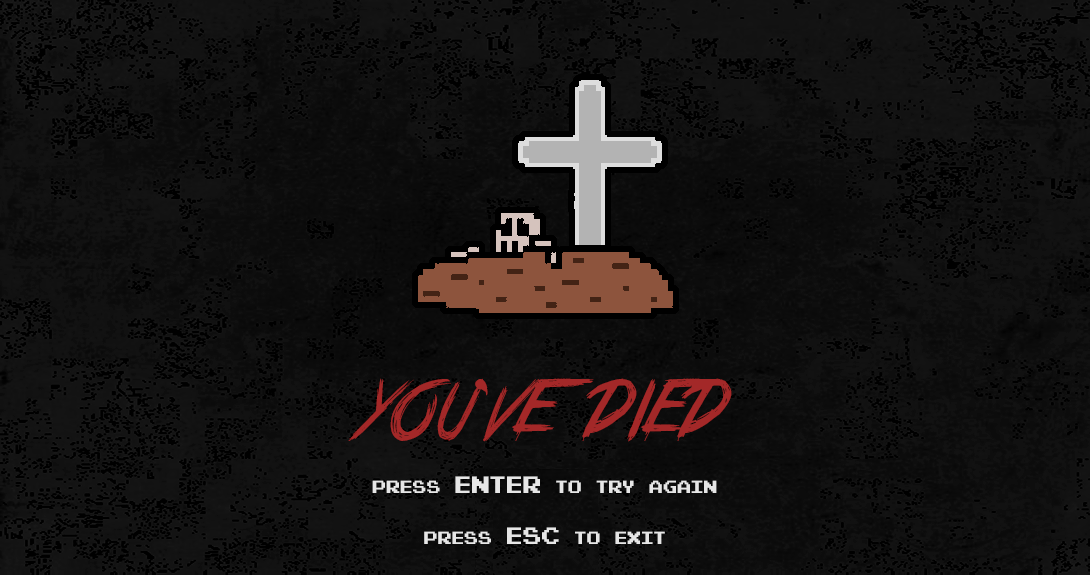
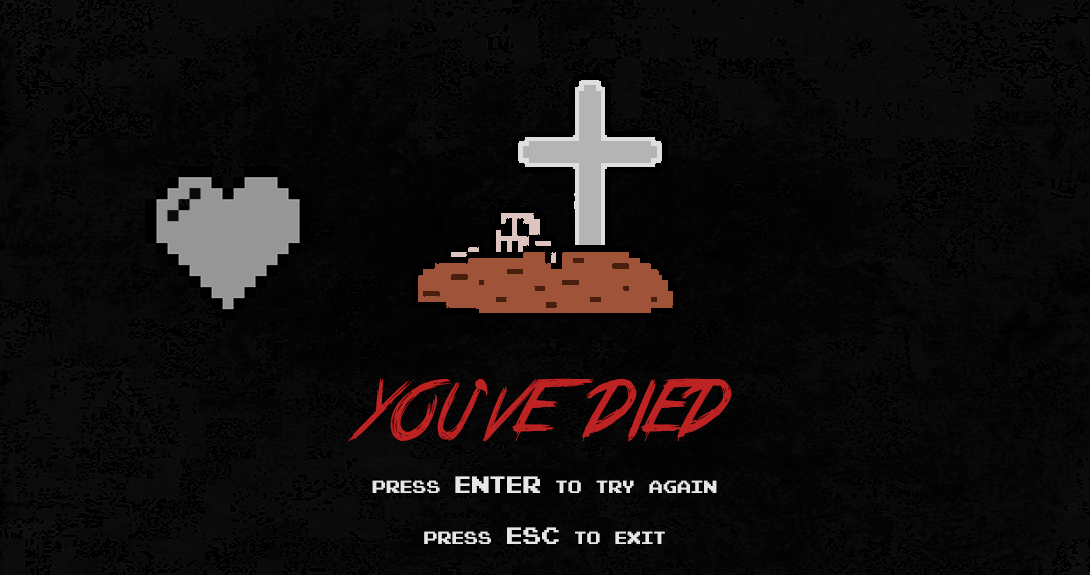
Corazon partío

Changed region(s): [[0.3119, 0.6504, 0.6862, 0.7687], [0.1248, 0.2957, 0.2807, 0.5322]]

diff --git a/Game/Source/Player.cpp b/Game/Source/Player.cpp
@@ -82,6 +82,10 @@ bool Player::Awake() {
 
 	textureportal = "Assets/Textures/Portal.png";
 	texturecoin = "Assets/Textures/Coin.png";
+
+	texturecora = "Assets/Textures/Corazon.png";
+	texturecoraroto = "Assets/Textures/corazonpartido.png";
+
 	
 
 	//L02: DONE 5: Get Player parameters from XML
@@ -100,6 +104,8 @@ bool Player::Start() {
 	texturescene4 = app->tex->Load(texturedeath);
 	portal = app->tex->Load(textureportal);
 	coin = app->tex->Load(texturecoin);
+	corazon = app->tex->Load(texturecora);
+	corazonpartio = app->tex->Load(texturecoraroto);
 
 	// L07 DONE 5: Add physics to the player - initialize physics body
 	pbody = app->physics->CreateCircle(position.x -50, position.y-276, 12, bodyType::DYNAMIC);
@@ -260,6 +266,7 @@ bool Player::Update()
 	}
 	if (introactiva == false) {
 		app->render->DrawTexture(texture, position.x - 12, position.y - 28, &rect);
+		app->render->DrawTexture(corazon, position.x+10, position.y - 40);
 	}
 	//app->render->DrawTexture(texture, position.x , position.y);
 	currentAnimation->Update();
@@ -277,6 +284,7 @@ bool Player::Update()
 	}
 
 	if (lose == true) {
+		app->render->DrawTexture(corazonpartio, position.x + 10, position.y - 40);
 		timer--;
 		if (position.x < 23 * 5 && timer <= 0) {
 			app->render->DrawTexture(texturescene4, 0, 0);

diff --git a/Game/Source/Player.h b/Game/Source/Player.h
@@ -55,6 +55,11 @@ private:
 	const char* textureportal;
 	SDL_Texture* coin;
 	const char* texturecoin;
+	SDL_Texture* corazon;
+	const char* texturecora;
+
+	SDL_Texture* corazonpartio;
+	const char* texturecoraroto;
 	
 
 	// L07 DONE 5: Add physics to the player - declare a Physics body
